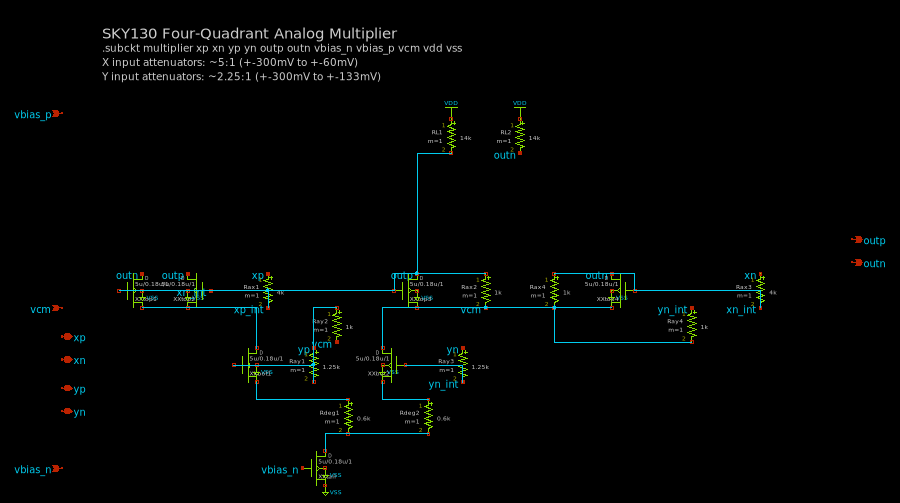
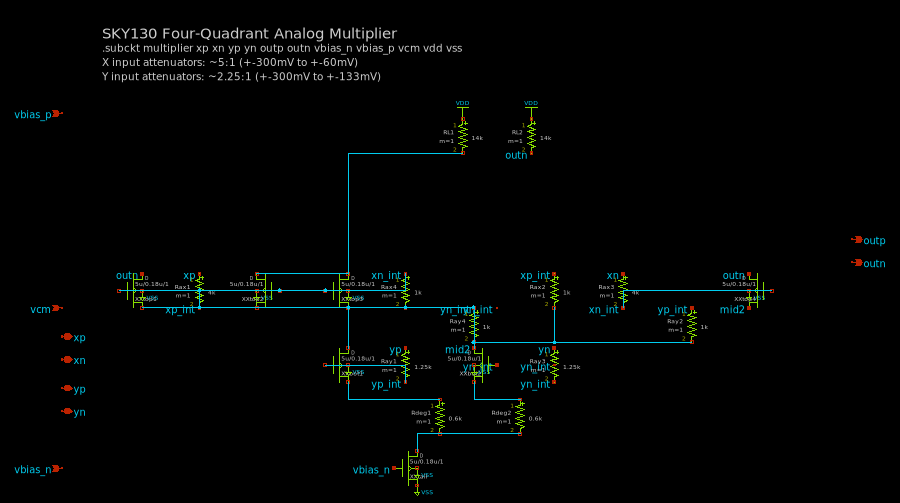
Align top NMOS blocks above bottom stacking partners (Gilbert cell)
Place bottom diff pair first, then align each top pair above the specific
bottom transistor whose drain matches the top pair's shared source.
Improves Gilbert cell vertical structure in the multiplier.

All 0 crossings. Aggregate ~7.7/10.

diff --git a/src/placer.py b/src/placer.py
@@ -601,14 +601,7 @@ def place_circuit(circuit: Circuit) -> PlacedCircuit:
             else:
                 px += H_SPACING + BLOCK_GAP
 
-        # Place top NMOS blocks above bottom ones (between PMOS and NMOS bands)
-        top_y = MID_Y  # Between PMOS and NMOS
-        tx = cur_x
-        for block in top_n:
-            _place_block(result, block, tx, top_y)
-            tx += H_SPACING + BLOCK_GAP
-
-        # Place bottom NMOS blocks at NMOS_Y
+        # Place bottom NMOS blocks FIRST (so top blocks can align above them)
         nx = cur_x
         for block in bottom_n:
             _place_block(result, block, nx, NMOS_Y)
@@ -630,6 +623,29 @@ def place_circuit(circuit: Circuit) -> PlacedCircuit:
                         context_placed.add(load_name)
 
             nx += H_SPACING + BLOCK_GAP
+
+        # Place top NMOS blocks aligned above their bottom stacking partners
+        top_y = MID_Y
+        tx = cur_x
+        for block in top_n:
+            block_sources = set()
+            for cn in block.components:
+                block_sources.add(circuit.components[cn].pins["source"])
+            aligned_x = None
+            for bot_block in bottom_n:
+                for cn in bot_block.components:
+                    drain_net = circuit.components[cn].pins["drain"]
+                    if drain_net in block_sources and cn in result.placements:
+                        aligned_x = result.placements[cn].x
+                        break
+                if aligned_x is not None:
+                    break
+
+            if aligned_x is not None:
+                _place_block(result, block, aligned_x, top_y)
+            else:
+                _place_block(result, block, tx, top_y)
+            tx = max(tx, max(result.placements[c].x for c in block.components)) + BLOCK_GAP + H_SPACING // 2
 
         cur_x = max(px, tx, nx)
 
